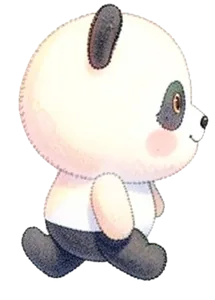
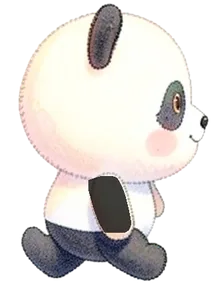
Miniroom: black arm on the panda's side walking frames

Changed region(s): [[0.3907, 0.57, 0.614, 0.78]]

diff --git a/public/js/views.js b/public/js/views.js
@@ -32,16 +32,16 @@ const DRAWN_EYES = {
 // 미니룸 전신 캐릭터: 앞(f)·옆(s, 오른쪽을 봄)·뒤(b) × 서 있기(0)·걷기 두 장(a, b). 모두 같은 캔버스라 바꿔 끼워도 자리가 같다
 //   fit: 앞모습 꾸미기 자리(얼굴 그림과 같은 순서), head: 보기마다 머리 가운데·폭, hand: 보기마다 손 끝 (그림 너비·높이에 대한 비율)
 const MR_BODY = {
-  '🐰': {"w": 184, "h": 300, "img": {"f0": "img/room/c-1f430-f0.webp?v=1126a", "fa": "img/room/c-1f430-fa.webp?v=1126a", "fb": "img/room/c-1f430-fb.webp?v=1126a", "s0": "img/room/c-1f430-s0.webp?v=1126a", "sa": "img/room/c-1f430-sa.webp?v=1126a", "sb": "img/room/c-1f430-sb.webp?v=1126a", "b0": "img/room/c-1f430-b0.webp?v=1126a", "ba": "img/room/c-1f430-ba.webp?v=1126a", "bb": "img/room/c-1f430-bb.webp?v=1126a"}, "fit": [0.512, 0.325, 0.845, 0.514, 0.664], "head": {"front": [0.512, 0.845], "side": [0.546, 0.849], "back": [0.514, 0.841]}, "eyes": [0.314, 0.511, 0.693, 0.51, 0.036], "hand": {"front": [0.932, 0.81], "side": [0.707, 0.81], "back": [0.902, 0.81]}},
-  '🐻': {"w": 223, "h": 300, "img": {"f0": "img/room/c-1f43b-f0.webp?v=1126a", "fa": "img/room/c-1f43b-fa.webp?v=1126a", "fb": "img/room/c-1f43b-fb.webp?v=1126a", "s0": "img/room/c-1f43b-s0.webp?v=1126a", "sa": "img/room/c-1f43b-sa.webp?v=1126a", "sb": "img/room/c-1f43b-sb.webp?v=1126a", "b0": "img/room/c-1f43b-b0.webp?v=1126a", "ba": "img/room/c-1f43b-ba.webp?v=1126a", "bb": "img/room/c-1f43b-bb.webp?v=1126a"}, "fit": [0.479, 0.001, 0.91, 0.374, 0.654], "head": {"front": [0.479, 0.91], "side": [0.484, 0.907], "back": [0.486, 0.896]}, "eyes": [0.311, 0.383, 0.694, 0.379, 0.048], "hand": {"front": [0.918, 0.769], "side": [0.687, 0.769], "back": [0.885, 0.769]}},
-  '🦊': {"w": 238, "h": 300, "img": {"f0": "img/room/c-1f98a-f0.webp?v=1126a", "fa": "img/room/c-1f98a-fa.webp?v=1126a", "fb": "img/room/c-1f98a-fb.webp?v=1126a", "s0": "img/room/c-1f98a-s0.webp?v=1126a", "sa": "img/room/c-1f98a-sa.webp?v=1126a", "sb": "img/room/c-1f98a-sb.webp?v=1126a", "b0": "img/room/c-1f98a-b0.webp?v=1126a", "ba": "img/room/c-1f98a-ba.webp?v=1126a", "bb": "img/room/c-1f98a-bb.webp?v=1126a"}, "fit": [0.529, 0.144, 0.827, 0.45, 0.68], "head": {"front": [0.529, 0.827], "side": [0.613, 0.743], "back": [0.529, 0.827]}, "eyes": [0.386, 0.446, 0.685, 0.44, 0.029], "hand": {"front": [0.874, 0.78], "side": [0.664, 0.78], "back": [0.841, 0.78]}},
-  '🐼': {"w": 229, "h": 300, "img": {"f0": "img/room/c-1f43c-f0.webp?v=1126a", "fa": "img/room/c-1f43c-fa.webp?v=1126a", "fb": "img/room/c-1f43c-fb.webp?v=1126a", "s0": "img/room/c-1f43c-s0.webp?v=1126a", "sa": "img/room/c-1f43c-sa.webp?v=1126a", "sb": "img/room/c-1f43c-sb.webp?v=1126a", "b0": "img/room/c-1f43c-b0.webp?v=1126a", "ba": "img/room/c-1f43c-ba.webp?v=1126a", "bb": "img/room/c-1f43c-bb.webp?v=1126a"}, "fit": [0.519, 0.041, 0.879, 0.376, 0.621], "head": {"front": [0.519, 0.879], "side": [0.539, 0.879], "back": [0.521, 0.876]}, "eyes": [0.351, 0.377, 0.672, 0.377, 0.04], "hand": {"front": [0.932, 0.759], "side": [0.69, 0.759], "back": [0.899, 0.759]}},
-  '🐯': {"w": 237, "h": 300, "img": {"f0": "img/room/c-1f42f-f0.webp?v=1126a", "fa": "img/room/c-1f42f-fa.webp?v=1126a", "fb": "img/room/c-1f42f-fb.webp?v=1126a", "s0": "img/room/c-1f42f-s0.webp?v=1126a", "sa": "img/room/c-1f42f-sa.webp?v=1126a", "sb": "img/room/c-1f42f-sb.webp?v=1126a", "b0": "img/room/c-1f42f-b0.webp?v=1126a", "ba": "img/room/c-1f42f-ba.webp?v=1126a", "bb": "img/room/c-1f42f-bb.webp?v=1126a"}, "fit": [0.514, 0.031, 0.924, 0.361, 0.657], "head": {"front": [0.514, 0.924], "side": [0.498, 0.86], "back": [0.517, 0.924]}, "eyes": [0.354, 0.368, 0.685, 0.361, 0.052], "hand": {"front": [0.885, 0.782], "side": [0.684, 0.782], "back": [0.854, 0.782]}},
-  '🐨': {"w": 276, "h": 300, "img": {"f0": "img/room/c-1f428-f0.webp?v=1126a", "fa": "img/room/c-1f428-fa.webp?v=1126a", "fb": "img/room/c-1f428-fb.webp?v=1126a", "s0": "img/room/c-1f428-s0.webp?v=1126a", "sa": "img/room/c-1f428-sa.webp?v=1126a", "sb": "img/room/c-1f428-sb.webp?v=1126a", "b0": "img/room/c-1f428-b0.webp?v=1126a", "ba": "img/room/c-1f428-ba.webp?v=1126a", "bb": "img/room/c-1f428-bb.webp?v=1126a"}, "fit": [0.495, 0.079, 0.619, 0.4, 0.628], "head": {"front": [0.495, 0.619], "side": [0.629, 0.543], "back": [0.495, 0.615]}, "eyes": [0.351, 0.403, 0.637, 0.401, 0.027], "hand": {"front": [0.774, 0.791], "side": [0.573, 0.791], "back": [0.732, 0.791]}},
-  '🐸': {"w": 316, "h": 300, "img": {"f0": "img/room/c-1f438-f0.webp?v=1126a", "fa": "img/room/c-1f438-fa.webp?v=1126a", "fb": "img/room/c-1f438-fb.webp?v=1126a", "s0": "img/room/c-1f438-s0.webp?v=1126a", "sa": "img/room/c-1f438-sa.webp?v=1126a", "sb": "img/room/c-1f438-sb.webp?v=1126a", "b0": "img/room/c-1f438-b0.webp?v=1126a", "ba": "img/room/c-1f438-ba.webp?v=1126a", "bb": "img/room/c-1f438-bb.webp?v=1126a"}, "fit": [0.495, -0.102, 0.635, 0.132, 0.645], "head": {"front": [0.495, 0.635], "side": [0.53, 0.267], "back": [0.482, 0.672]}, "eyes": [0.281, 0.114, 0.714, 0.114, 0.06], "hand": {"front": [0.839, 0.754], "side": [0.613, 0.754], "back": [0.794, 0.754]}},
-  '🦁': {"w": 219, "h": 300, "img": {"f0": "img/room/c-1f981-f0.webp?v=1126a", "fa": "img/room/c-1f981-fa.webp?v=1126a", "fb": "img/room/c-1f981-fb.webp?v=1126a", "s0": "img/room/c-1f981-s0.webp?v=1126a", "sa": "img/room/c-1f981-sa.webp?v=1126a", "sb": "img/room/c-1f981-sb.webp?v=1126a", "b0": "img/room/c-1f981-b0.webp?v=1126a", "ba": "img/room/c-1f981-ba.webp?v=1126a", "bb": "img/room/c-1f981-bb.webp?v=1126a"}, "fit": [0.495, 0.052, 0.82, 0.399, 0.699], "head": {"front": [0.495, 0.82], "side": [0.471, 0.681], "back": [0.504, 0.805]}, "eyes": [0.363, 0.403, 0.629, 0.402, 0.036], "hand": {"front": [0.882, 0.597], "side": [0.68, 0.597], "back": [0.826, 0.597]}},
-  '🐧': {"w": 254, "h": 300, "img": {"f0": "img/room/c-1f427-f0.webp?v=1126a", "fa": "img/room/c-1f427-fa.webp?v=1126a", "fb": "img/room/c-1f427-fb.webp?v=1126a", "s0": "img/room/c-1f427-s0.webp?v=1126a", "sa": "img/room/c-1f427-sa.webp?v=1126a", "sb": "img/room/c-1f427-sb.webp?v=1126a", "b0": "img/room/c-1f427-b0.webp?v=1126a", "ba": "img/room/c-1f427-ba.webp?v=1126a", "bb": "img/room/c-1f427-bb.webp?v=1126a"}, "fit": [0.482, 0.014, 0.783, 0.345, 0.619], "head": {"front": [0.482, 0.783], "side": [0.516, 0.836], "back": [0.481, 0.78]}, "eyes": [0.303, 0.351, 0.692, 0.346, 0.03], "hand": {"front": [0.956, 0.72], "side": [0.693, 0.72], "back": [0.926, 0.72]}},
-  '🦄': {"w": 240, "h": 300, "img": {"f0": "img/room/c-1f984-f0.webp?v=1126a", "fa": "img/room/c-1f984-fa.webp?v=1126a", "fb": "img/room/c-1f984-fb.webp?v=1126a", "s0": "img/room/c-1f984-s0.webp?v=1126a", "sa": "img/room/c-1f984-sa.webp?v=1126a", "sb": "img/room/c-1f984-sb.webp?v=1126a", "b0": "img/room/c-1f984-b0.webp?v=1126a", "ba": "img/room/c-1f984-ba.webp?v=1126a", "bb": "img/room/c-1f984-bb.webp?v=1126a"}, "fit": [0.45, 0.214, 0.761, 0.487, 0.761], "head": {"front": [0.45, 0.761], "side": [0.47, 0.71], "back": [0.472, 0.693]}, "eyes": [0.3, 0.532, 0.616, 0.52, 0.032], "hand": {"front": [0.813, 0.798], "side": [0.606, 0.798], "back": [0.767, 0.798]}},
+  '🐰': {"w": 184, "h": 300, "img": {"f0": "img/room/c-1f430-f0.webp?v=1126b", "fa": "img/room/c-1f430-fa.webp?v=1126b", "fb": "img/room/c-1f430-fb.webp?v=1126b", "s0": "img/room/c-1f430-s0.webp?v=1126b", "sa": "img/room/c-1f430-sa.webp?v=1126b", "sb": "img/room/c-1f430-sb.webp?v=1126b", "b0": "img/room/c-1f430-b0.webp?v=1126b", "ba": "img/room/c-1f430-ba.webp?v=1126b", "bb": "img/room/c-1f430-bb.webp?v=1126b"}, "fit": [0.512, 0.325, 0.845, 0.514, 0.664], "head": {"front": [0.512, 0.845], "side": [0.546, 0.849], "back": [0.514, 0.841]}, "eyes": [0.314, 0.511, 0.693, 0.51, 0.036], "hand": {"front": [0.932, 0.81], "side": [0.707, 0.81], "back": [0.902, 0.81]}},
+  '🐻': {"w": 223, "h": 300, "img": {"f0": "img/room/c-1f43b-f0.webp?v=1126b", "fa": "img/room/c-1f43b-fa.webp?v=1126b", "fb": "img/room/c-1f43b-fb.webp?v=1126b", "s0": "img/room/c-1f43b-s0.webp?v=1126b", "sa": "img/room/c-1f43b-sa.webp?v=1126b", "sb": "img/room/c-1f43b-sb.webp?v=1126b", "b0": "img/room/c-1f43b-b0.webp?v=1126b", "ba": "img/room/c-1f43b-ba.webp?v=1126b", "bb": "img/room/c-1f43b-bb.webp?v=1126b"}, "fit": [0.479, 0.001, 0.91, 0.374, 0.654], "head": {"front": [0.479, 0.91], "side": [0.484, 0.907], "back": [0.486, 0.896]}, "eyes": [0.311, 0.383, 0.694, 0.379, 0.048], "hand": {"front": [0.918, 0.769], "side": [0.687, 0.769], "back": [0.885, 0.769]}},
+  '🦊': {"w": 238, "h": 300, "img": {"f0": "img/room/c-1f98a-f0.webp?v=1126b", "fa": "img/room/c-1f98a-fa.webp?v=1126b", "fb": "img/room/c-1f98a-fb.webp?v=1126b", "s0": "img/room/c-1f98a-s0.webp?v=1126b", "sa": "img/room/c-1f98a-sa.webp?v=1126b", "sb": "img/room/c-1f98a-sb.webp?v=1126b", "b0": "img/room/c-1f98a-b0.webp?v=1126b", "ba": "img/room/c-1f98a-ba.webp?v=1126b", "bb": "img/room/c-1f98a-bb.webp?v=1126b"}, "fit": [0.529, 0.144, 0.827, 0.45, 0.68], "head": {"front": [0.529, 0.827], "side": [0.613, 0.743], "back": [0.529, 0.827]}, "eyes": [0.386, 0.446, 0.685, 0.44, 0.029], "hand": {"front": [0.874, 0.78], "side": [0.664, 0.78], "back": [0.841, 0.78]}},
+  '🐼': {"w": 229, "h": 300, "img": {"f0": "img/room/c-1f43c-f0.webp?v=1126b", "fa": "img/room/c-1f43c-fa.webp?v=1126b", "fb": "img/room/c-1f43c-fb.webp?v=1126b", "s0": "img/room/c-1f43c-s0.webp?v=1126b", "sa": "img/room/c-1f43c-sa.webp?v=1126b", "sb": "img/room/c-1f43c-sb.webp?v=1126b", "b0": "img/room/c-1f43c-b0.webp?v=1126b", "ba": "img/room/c-1f43c-ba.webp?v=1126b", "bb": "img/room/c-1f43c-bb.webp?v=1126b"}, "fit": [0.519, 0.041, 0.879, 0.376, 0.621], "head": {"front": [0.519, 0.879], "side": [0.539, 0.879], "back": [0.521, 0.876]}, "eyes": [0.351, 0.377, 0.672, 0.377, 0.04], "hand": {"front": [0.932, 0.759], "side": [0.69, 0.759], "back": [0.899, 0.759]}},
+  '🐯': {"w": 237, "h": 300, "img": {"f0": "img/room/c-1f42f-f0.webp?v=1126b", "fa": "img/room/c-1f42f-fa.webp?v=1126b", "fb": "img/room/c-1f42f-fb.webp?v=1126b", "s0": "img/room/c-1f42f-s0.webp?v=1126b", "sa": "img/room/c-1f42f-sa.webp?v=1126b", "sb": "img/room/c-1f42f-sb.webp?v=1126b", "b0": "img/room/c-1f42f-b0.webp?v=1126b", "ba": "img/room/c-1f42f-ba.webp?v=1126b", "bb": "img/room/c-1f42f-bb.webp?v=1126b"}, "fit": [0.514, 0.031, 0.924, 0.361, 0.657], "head": {"front": [0.514, 0.924], "side": [0.498, 0.86], "back": [0.517, 0.924]}, "eyes": [0.354, 0.368, 0.685, 0.361, 0.052], "hand": {"front": [0.885, 0.782], "side": [0.684, 0.782], "back": [0.854, 0.782]}},
+  '🐨': {"w": 276, "h": 300, "img": {"f0": "img/room/c-1f428-f0.webp?v=1126b", "fa": "img/room/c-1f428-fa.webp?v=1126b", "fb": "img/room/c-1f428-fb.webp?v=1126b", "s0": "img/room/c-1f428-s0.webp?v=1126b", "sa": "img/room/c-1f428-sa.webp?v=1126b", "sb": "img/room/c-1f428-sb.webp?v=1126b", "b0": "img/room/c-1f428-b0.webp?v=1126b", "ba": "img/room/c-1f428-ba.webp?v=1126b", "bb": "img/room/c-1f428-bb.webp?v=1126b"}, "fit": [0.495, 0.079, 0.619, 0.4, 0.628], "head": {"front": [0.495, 0.619], "side": [0.629, 0.543], "back": [0.495, 0.615]}, "eyes": [0.351, 0.403, 0.637, 0.401, 0.027], "hand": {"front": [0.774, 0.791], "side": [0.573, 0.791], "back": [0.732, 0.791]}},
+  '🐸': {"w": 316, "h": 300, "img": {"f0": "img/room/c-1f438-f0.webp?v=1126b", "fa": "img/room/c-1f438-fa.webp?v=1126b", "fb": "img/room/c-1f438-fb.webp?v=1126b", "s0": "img/room/c-1f438-s0.webp?v=1126b", "sa": "img/room/c-1f438-sa.webp?v=1126b", "sb": "img/room/c-1f438-sb.webp?v=1126b", "b0": "img/room/c-1f438-b0.webp?v=1126b", "ba": "img/room/c-1f438-ba.webp?v=1126b", "bb": "img/room/c-1f438-bb.webp?v=1126b"}, "fit": [0.495, -0.102, 0.635, 0.132, 0.645], "head": {"front": [0.495, 0.635], "side": [0.53, 0.267], "back": [0.482, 0.672]}, "eyes": [0.281, 0.114, 0.714, 0.114, 0.06], "hand": {"front": [0.839, 0.754], "side": [0.613, 0.754], "back": [0.794, 0.754]}},
+  '🦁': {"w": 219, "h": 300, "img": {"f0": "img/room/c-1f981-f0.webp?v=1126b", "fa": "img/room/c-1f981-fa.webp?v=1126b", "fb": "img/room/c-1f981-fb.webp?v=1126b", "s0": "img/room/c-1f981-s0.webp?v=1126b", "sa": "img/room/c-1f981-sa.webp?v=1126b", "sb": "img/room/c-1f981-sb.webp?v=1126b", "b0": "img/room/c-1f981-b0.webp?v=1126b", "ba": "img/room/c-1f981-ba.webp?v=1126b", "bb": "img/room/c-1f981-bb.webp?v=1126b"}, "fit": [0.495, 0.052, 0.82, 0.399, 0.699], "head": {"front": [0.495, 0.82], "side": [0.471, 0.681], "back": [0.504, 0.805]}, "eyes": [0.363, 0.403, 0.629, 0.402, 0.036], "hand": {"front": [0.882, 0.597], "side": [0.68, 0.597], "back": [0.826, 0.597]}},
+  '🐧': {"w": 254, "h": 300, "img": {"f0": "img/room/c-1f427-f0.webp?v=1126b", "fa": "img/room/c-1f427-fa.webp?v=1126b", "fb": "img/room/c-1f427-fb.webp?v=1126b", "s0": "img/room/c-1f427-s0.webp?v=1126b", "sa": "img/room/c-1f427-sa.webp?v=1126b", "sb": "img/room/c-1f427-sb.webp?v=1126b", "b0": "img/room/c-1f427-b0.webp?v=1126b", "ba": "img/room/c-1f427-ba.webp?v=1126b", "bb": "img/room/c-1f427-bb.webp?v=1126b"}, "fit": [0.482, 0.014, 0.783, 0.345, 0.619], "head": {"front": [0.482, 0.783], "side": [0.516, 0.836], "back": [0.481, 0.78]}, "eyes": [0.303, 0.351, 0.692, 0.346, 0.03], "hand": {"front": [0.956, 0.72], "side": [0.693, 0.72], "back": [0.926, 0.72]}},
+  '🦄': {"w": 240, "h": 300, "img": {"f0": "img/room/c-1f984-f0.webp?v=1126b", "fa": "img/room/c-1f984-fa.webp?v=1126b", "fb": "img/room/c-1f984-fb.webp?v=1126b", "s0": "img/room/c-1f984-s0.webp?v=1126b", "sa": "img/room/c-1f984-sa.webp?v=1126b", "sb": "img/room/c-1f984-sb.webp?v=1126b", "b0": "img/room/c-1f984-b0.webp?v=1126b", "ba": "img/room/c-1f984-ba.webp?v=1126b", "bb": "img/room/c-1f984-bb.webp?v=1126b"}, "fit": [0.45, 0.214, 0.761, 0.487, 0.761], "head": {"front": [0.45, 0.761], "side": [0.47, 0.71], "back": [0.472, 0.693]}, "eyes": [0.3, 0.532, 0.616, 0.52, 0.032], "hand": {"front": [0.813, 0.798], "side": [0.606, 0.798], "back": [0.767, 0.798]}},
 };
 // 손 아이템을 쥐는 자리 (아이템 그림에 대한 비율, style.css 의 .paw 자리와 같다)
 const MR_GRIP = { 'acc-lollipop': [50, 70], 'acc-wand': [62, 66], 'acc-balloon': [50, 92], 'acc-teddy': [18, 58], 'acc-icecream': [50, 80], 'acc-sunflower': [50, 74], 'acc-bubbles': [14, 88] };
